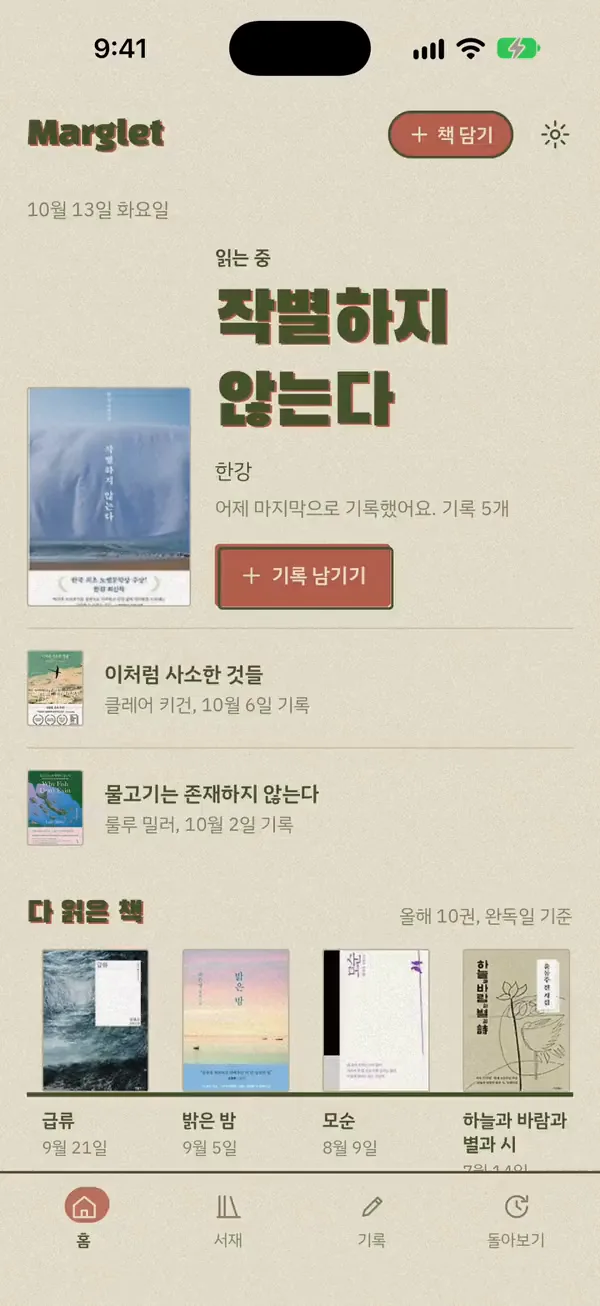
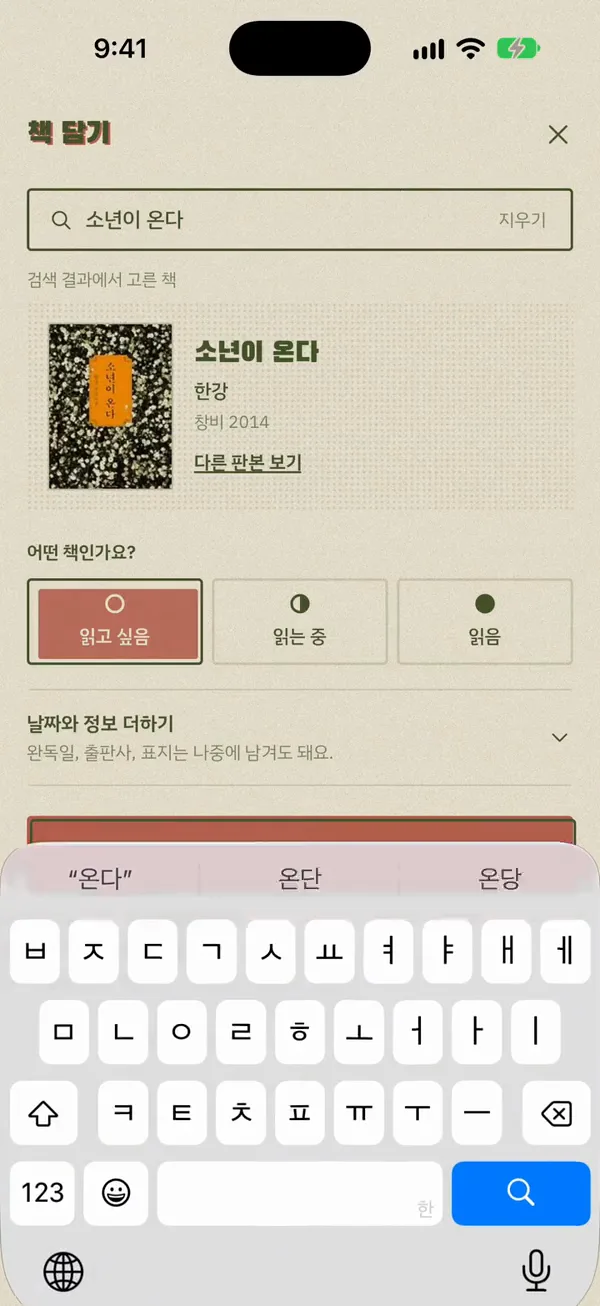
fix(resume): print stills for capture videos and keep two columns on mobile
Videos printed their first frame, so Marglet's three captures looked
identical in the PDF. Print now swaps each video for its still, and the
stills are re-cut from representative frames. Landscape captures stay
two across on narrow screens, and CLAUDE.md documents screen captures
as an exception to the no-illustrations rule.

diff --git a/src/app/resume/page.tsx b/src/app/resume/page.tsx
@@ -121,7 +121,7 @@ function WorkItem({ work, n }: { work: Work; n: number }) {
         {work.motive && <p className={`mt-4 text-[15px] leading-[1.8] text-sub ${READING}`}>{work.motive}</p>}
         {work.media && (
           <ul
-            className={`mt-8 grid gap-4 sm:gap-6 ${work.media.shape === "phone" ? "max-w-[560px] grid-cols-3" : "sm:grid-cols-2"}`}
+            className={`mt-8 grid gap-4 sm:gap-6 ${work.media.shape === "phone" ? "max-w-[560px] grid-cols-3" : "grid-cols-2"}`}
           >
             {work.media.items.map((item) => (
               <li key={item.image}>
@@ -154,14 +154,14 @@ function WorkItem({ work, n }: { work: Work; n: number }) {
   );
 }
 
-/** 화면 캡처 한 장. 영상은 GIF처럼 소리 없이 반복 재생한다 */
+/** 화면 캡처 한 장. 영상은 GIF처럼 소리 없이 반복 재생하고, 인쇄할 때는 정지 화면으로 바꾼다 */
 function Shot({ item, name, shape }: { item: Media; name: string; shape: MediaSet["shape"] }) {
   const label = `${name} ${item.caption} 화면`;
   const [width, height] = shape === "phone" ? [600, 1305] : [1200, 750];
-  const className = `block w-full border border-line ${shape === "phone" ? "aspect-[600/1305]" : "aspect-[16/10]"}`;
+  const className = `w-full border border-line ${shape === "phone" ? "aspect-[600/1305]" : "aspect-[16/10]"}`;
   return (
-    <figure>
-      {item.video ? (
+    <figure className="break-inside-avoid">
+      {item.video && (
         <video
           src={item.video}
           poster={item.image}
@@ -171,11 +171,17 @@ function Shot({ item, name, shape }: { item: Media; name: string; shape: MediaSe
           muted
           playsInline
           preload="metadata"
-          className={className}
+          className={`block print:hidden ${className}`}
         />
-      ) : (
-        <img src={item.image} alt={label} width={width} height={height} loading="lazy" className={className} />
       )}
+      <img
+        src={item.image}
+        alt={label}
+        width={width}
+        height={height}
+        loading={item.video ? "eager" : "lazy"}
+        className={`${item.video ? "hidden print:block" : "block"} ${className}`}
+      />
       <figcaption className="mt-2 text-[13px] leading-[1.6] text-muted">{item.caption}</figcaption>
     </figure>
   );

diff --git a/CLAUDE.md b/CLAUDE.md
@@ -12,8 +12,8 @@ This file provides guidance to Claude Code (claude.ai/code) when working with co
 ## Notes
 
 - Personal site with three pages: `/` (Home — who I am: hero, about, expertise, selected work, selected writing, contact), `/resume` (full experience, projects, skills, education; "PDF로 저장" uses `window.print()` with `print:hidden`), and `/blog` + `/blog/[slug]`. Stack: Next.js 16 App Router, React 19, Tailwind v4 CSS-first, next-themes. Path alias `@/*` → `src/*`.
-- Site content lives in `src/lib/resume.ts`; components only render it. Home's selected work references `works` by `id` (also the `/resume#id` anchor); a work's `post` is a blog slug. UI copy uses the formal 합니다체. Strings in `resume.ts` may contain `**bold**` markup, which only renders as `<strong>` where a component passes the text through `RichText` in `src/components/section.tsx` (that file also holds the shared `SHELL`, `READING`, `COLUMNS`, `Section`, `TextLink`, `ArrowLink`, `Num`, `Highlights` primitives). Header nav items are `nav` in `src/lib/site.ts`.
-- Blog posts are MDX files in `content/blog/<slug>.mdx` (`@next/mdx`, loaded by `src/lib/blog.ts`). Each exports `metadata` (`PostMeta`: title, description, date, tags, optional `work` id and `featured` for Home's selected posts). Element styles are in `src/mdx-components.tsx`, which also registers the interactive demos in `src/components/demos/` so posts use them as bare tags (`<StreamBatchDemo />`) without imports. Demos are the one place panels and toggles are allowed; their outer shell is still editorial (top/bottom `border-line` dividers, text-link toggles, no card frame). Post thumbnails are inline SVGs keyed by slug in `src/components/post-thumbnail.tsx` (1200×630, flat shapes built only from the tokens and helpers at the top of that file: `--thumb-*` colors, 2/3 stroke, 16/10 radius, a fixed safe area, and a single `--gold` dot on the result point); they and the Home hero avatar (`src/components/avatar.tsx`, `--avatar-*` colors, gold only on the hair clip) are the only exceptions to the no-illustrations rule. Follow `docs/blog-thumbnail-guide.md` when adding or changing one. MDX plugins must be given as strings with JSON-serializable options in `next.config.ts` (Turbopack). Code blocks are highlighted at build time by `rehype-pretty-code` with Shiki's css-variables theme; token colors are the `--shiki-*` variables and the highlighted-line background is `--code-highlight` in `globals.css` (keep ≥4.5:1 contrast on both `--soft` and `--code-highlight`). Highlight key lines with a fence meta like ```` ```ts {3-5} ````.
+- Site content lives in `src/lib/resume.ts`; components only render it. Home's selected work references `works` by `id` (also the `/resume#id` anchor); a work's `post` is a blog slug. Side projects live in a separate `sideProjects` list (same `Work` type) shown only on `/resume`. A work may carry `media`, real screen captures of the product stored under `public/works/<id>/` (WebP stills ~600px wide for phone screens or 1200×750 for landscape, short muted MP4 loops with a still as `image`); `shape` picks the layout (`phone`: three across, `screen`: two across) and `Shot` in `src/app/resume/page.tsx` renders them with only a thin `border-line` frame (no device mockups, shadows or rounded cards) and swaps videos for their still in print. UI copy uses the formal 합니다체. Strings in `resume.ts` may contain `**bold**` markup, which only renders as `<strong>` where a component passes the text through `RichText` in `src/components/section.tsx` (that file also holds the shared `SHELL`, `READING`, `COLUMNS`, `Section`, `TextLink`, `ArrowLink`, `Num`, `Highlights` primitives). Header nav items are `nav` in `src/lib/site.ts`.
+- Blog posts are MDX files in `content/blog/<slug>.mdx` (`@next/mdx`, loaded by `src/lib/blog.ts`). Each exports `metadata` (`PostMeta`: title, description, date, tags, optional `work` id and `featured` for Home's selected posts). Element styles are in `src/mdx-components.tsx`, which also registers the interactive demos in `src/components/demos/` so posts use them as bare tags (`<StreamBatchDemo />`) without imports. Demos are the one place panels and toggles are allowed; their outer shell is still editorial (top/bottom `border-line` dividers, text-link toggles, no card frame). Post thumbnails are inline SVGs keyed by slug in `src/components/post-thumbnail.tsx` (1200×630, flat shapes built only from the tokens and helpers at the top of that file: `--thumb-*` colors, 2/3 stroke, 16/10 radius, a fixed safe area, and a single `--gold` dot on the result point); they, the Home hero avatar (`src/components/avatar.tsx`, `--avatar-*` colors, gold only on the hair clip) and the Resume project screen captures (below) are the only exceptions to the no-illustrations rule. Follow `docs/blog-thumbnail-guide.md` when adding or changing one. MDX plugins must be given as strings with JSON-serializable options in `next.config.ts` (Turbopack). Code blocks are highlighted at build time by `rehype-pretty-code` with Shiki's css-variables theme; token colors are the `--shiki-*` variables and the highlighted-line background is `--code-highlight` in `globals.css` (keep ≥4.5:1 contrast on both `--soft` and `--code-highlight`). Highlight key lines with a fence meta like ```` ```ts {3-5} ````.
 - Colors are CSS variables in `src/app/globals.css`, defined for `:root` and `:root[data-theme="dark"]`; use the semantic Tailwind tokens (`text-heading`, `text-sub`, `bg-soft`, `border-line`, `text-accent`, `bg-accent-soft`, `text-gold`) instead of raw palette colors. Light mode uses a pure white background. Gold is a micro accent only (numbers, arrows, link underlines on hover), never backgrounds or large headings.
 - Theme-dependent UI is switched with `dark:` classes (keyed off `data-theme`), not by branching on `resolvedTheme` during render. Keep the `ThemeProvider` wrapper's `scriptProps` workaround.
 - Layout is editorial and typographic: a 960px shell (`SHELL`); long prose is narrowed to 680px (`READING`) and blog articles to 720px. Every section (and each page header) uses the shared `COLUMNS` grid (section name in a 140px left column, content on the right), separated by thin top dividers. No cards, panels, illustrations, chips/pills, big CTA buttons or shadows; links are underlined `TextLink`s or `ArrowLink`s. Projects are numbered `01 —` with the number in gold; tech stacks and meta are plain `·`-joined text. Case-study titles use ~20–21px semibold, not big stat numbers. The resume timeline is a vertical line with dots (`TreeDot`). Type is IBM Plex Sans KR (`next/font/google`, `--font-plex`) at weights 400/600 only — each extra weight adds ~100 Korean unicode-range slices, so don't add weights casually. Avoid uppercase English eyebrow labels.
